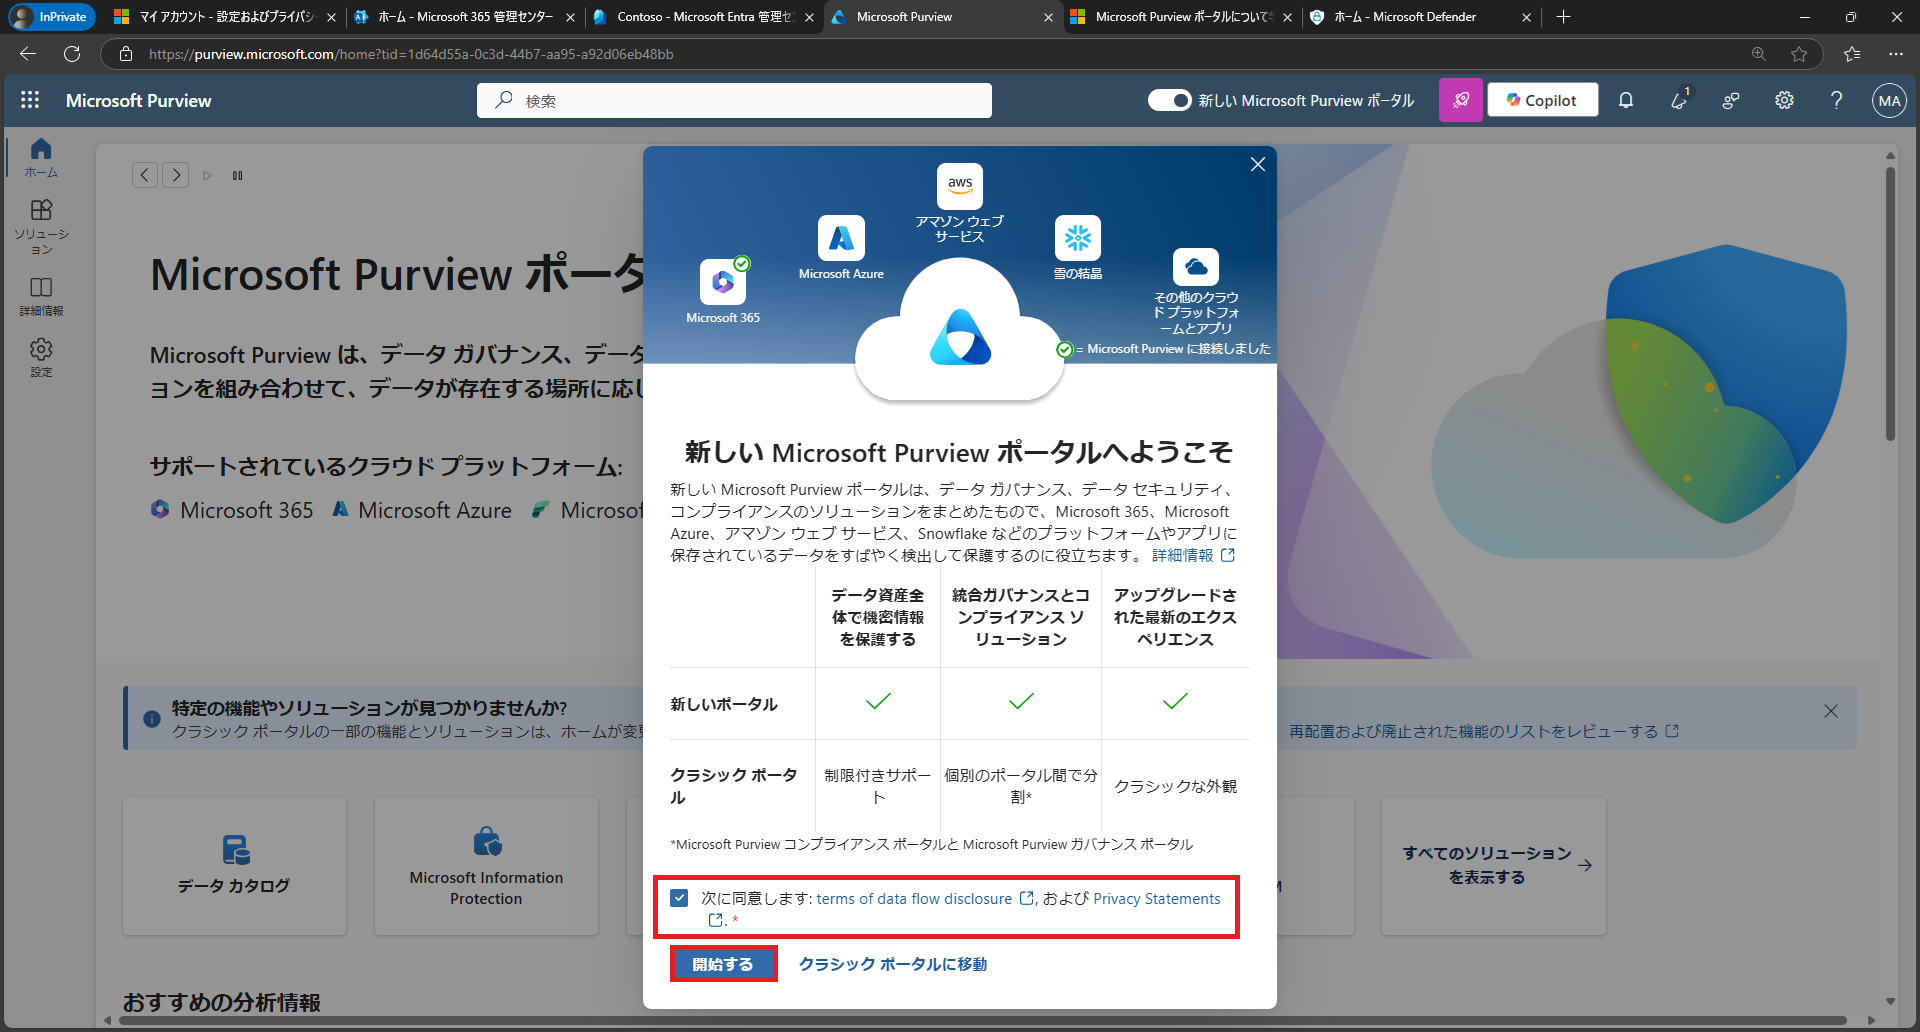
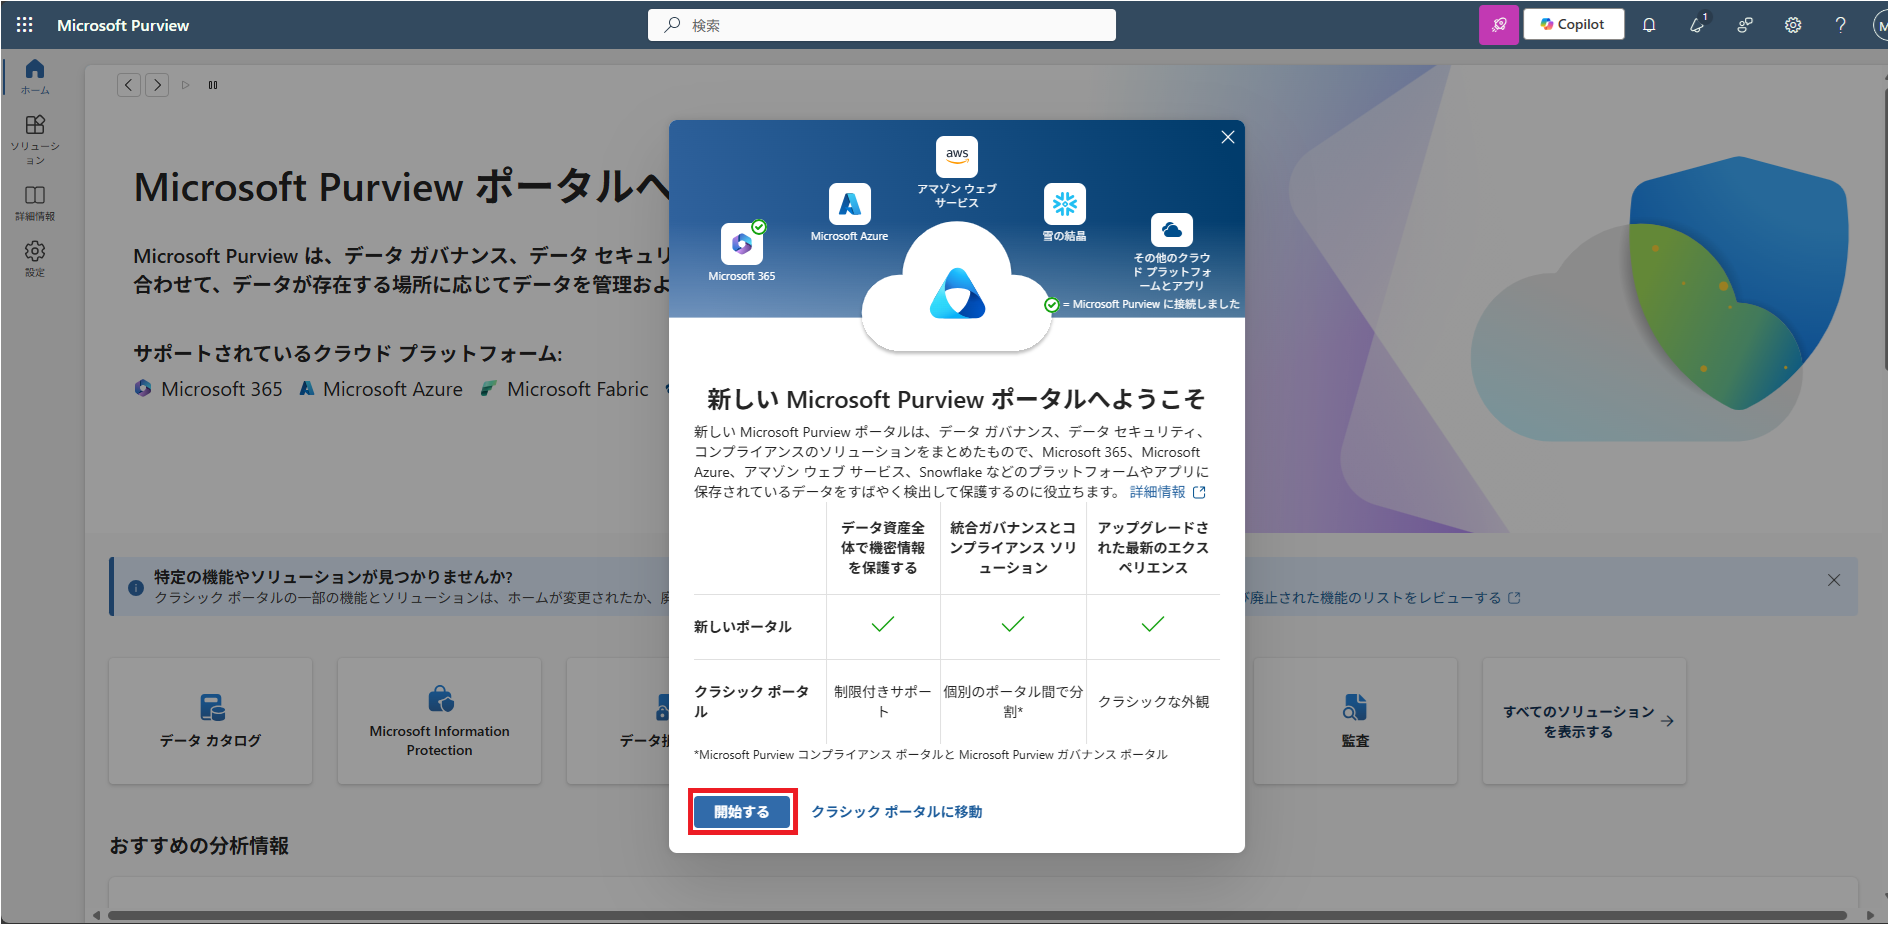
update

diff --git a/LabManual/Lab01_Microsoft365管理センターへサインインする.md b/LabManual/Lab01_Microsoft365管理センターへサインインする.md
@@ -108,7 +108,7 @@
 
 5. [コンプライアンス]のみ、新しくポータルサイトが変わりました。自動で切り替わります。
 
-6. [新しい Microsoft Purview ポータルへようこそ]と表示された場合、[次に同意する]に☑を入れ[開始する]を選択します。
+6. [新しい Microsoft Purview ポータルへようこそ]と表示された場合、[開始する]を選択します。
 
    ![](./media/lab1-7.png)
 
